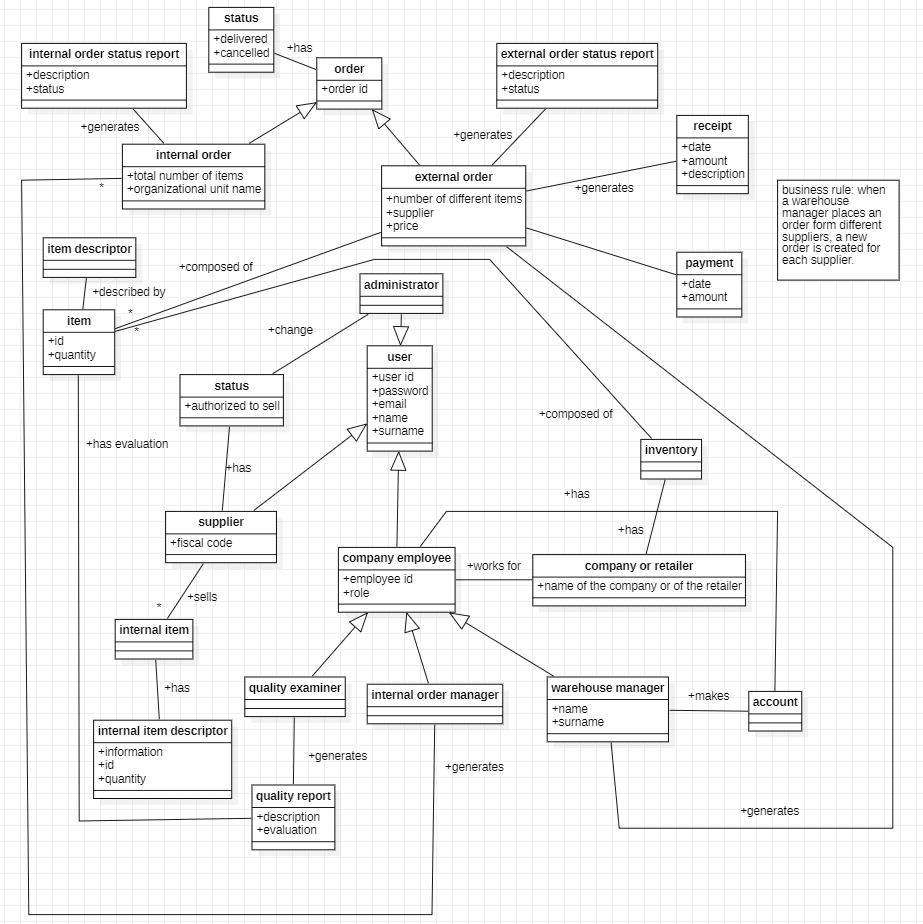
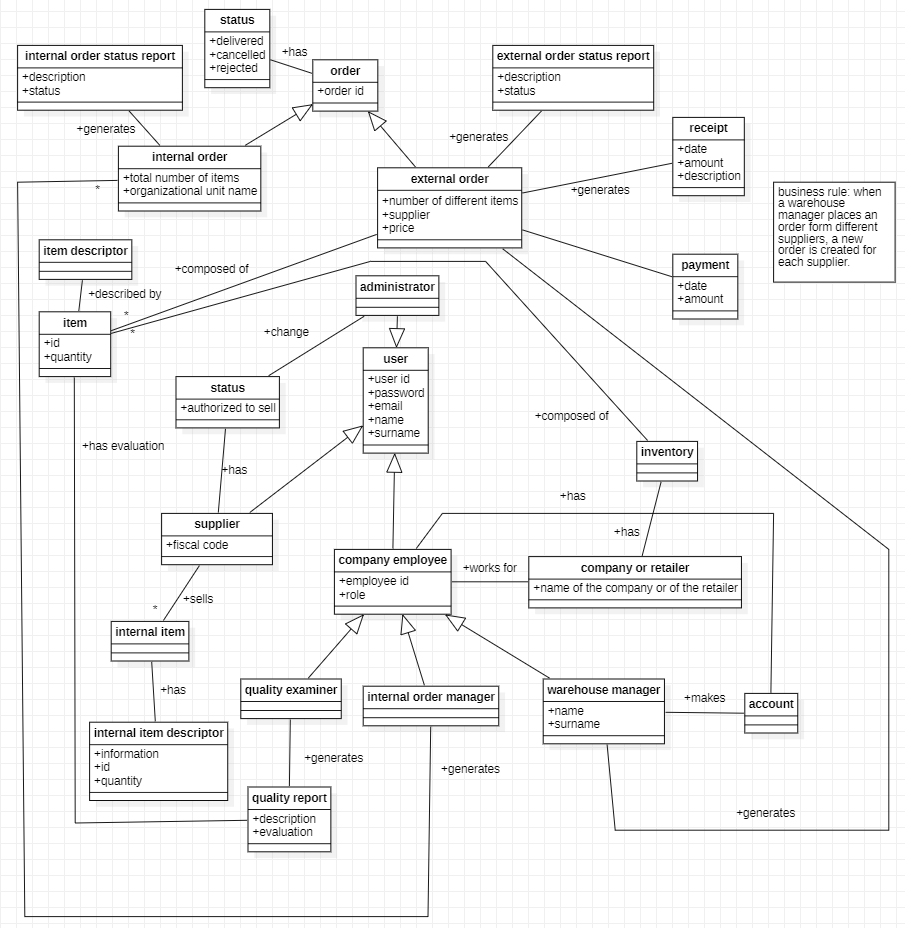
added deployment diagram and system design, completed the estimation and the requirements document

diff --git a/Estimation.md b/Estimation.md
@@ -1,54 +1,65 @@
-# Project Estimation  
+# Project Estimation
+
 Date:
 
 Version:
 
-
 # Estimation approach
-Consider the EZWH  project as described in YOUR requirement document, assume that you are going to develop the project INDEPENDENT of the deadlines of the course
+
+Consider the EZWH project as described in YOUR requirement document, assume that you are going to develop the project INDEPENDENT of the deadlines of the course
+
 # Estimate by size
-### 
-|             | Estimate                        |             
-| ----------- | ------------------------------- |  
-| NC =  Estimated number of classes to be developed   |                             |             
-|  A = Estimated average size per class, in LOC       |                            | 
-| S = Estimated size of project, in LOC (= NC * A) | |
-| E = Estimated effort, in person hours (here use productivity 10 LOC per person hour)  |                                      |   
-| C = Estimated cost, in euro (here use 1 person hour cost = 30 euro) | | 
-| Estimated calendar time, in calendar weeks (Assume team of 4 people, 8 hours per day, 5 days per week ) |                    |               
+
+###
+
+|                                                                                                         | Estimate  |
+| ------------------------------------------------------------------------------------------------------- | --------- |
+| NC = Estimated number of classes to be developed                                                        | 30        |
+| A = Estimated average size per class, in LOC                                                            | 200       |
+| S = Estimated size of project, in LOC (= NC \* A)                                                       | 6000      |
+| E = Estimated effort, in person hours (here use productivity 10 LOC per person hour)                    | 150       |
+| C = Estimated cost, in euro (here use 1 person hour cost = 30 euro)                                     | 4500      |
+| Estimated calendar time, in calendar weeks (Assume team of 4 people, 8 hours per day, 5 days per week ) | ~ 4 weeks |
 
 # Estimate by product decomposition
-### 
-|         component name    | Estimated effort (person hours)   |             
-| ----------- | ------------------------------- | 
-|requirement document    | |
-| GUI prototype | |
-|design document | |
-|code | |
-| unit tests ||
-| api tests ||
-| management documents  ||
 
+###
 
+| component name       | Estimated effort (person hours) |
+| -------------------- | ------------------------------- |
+| requirement document | 21                              |
+| GUI prototype        | 5                               |
+| design document      | 10                              |
+| code                 | 150                             |
+| unit tests           | 50                              |
+| api tests            | 15                              |
+| management documents | 15                              |
 
 # Estimate by activity decomposition
-### 
-|         Activity name    | Estimated effort (person hours)   |             
-| ----------- | ------------------------------- | 
-| | |
+
 ###
-Insert here Gantt chart with above activities
+
+| Activity name        | Estimated effort (person hours) |
+| -------------------- | ------------------------------- |
+| requirement document | 21                              |
+| GUI prototype        | 5                               |
+| Estimation document  | 2                               |
+| design document      | 10                              |
+| code                 | 150                             |
+| unit tests           | 50                              |
+| api tests            | 15                              |
+| Time sheet           | 2                               |
+
+###
+
+![estimation](src/img/estimation.png "estimation")
 
 # Summary
 
-Report here the results of the three estimation approaches. The  estimates may differ. Discuss here the possible reasons for the difference
+Report here the results of the three estimation approaches. The estimates may differ. Discuss here the possible reasons for the difference
 
-|             | Estimated effort                        |   Estimated duration |          
-| ----------- | ------------------------------- | ---------------|
-| estimate by size ||
-| estimate by product decomposition ||
-| estimate by activity decomposition ||
-
-
-
-
+|                                    | Estimated effort | Estimated duration |
+| ---------------------------------- | ---------------- | ------------------ |
+| estimate by size                   | 150 hours        | 4 weeks            |
+| estimate by product decomposition  | 266 hours        | 2 weeks            |
+| estimate by activity decomposition | 255 hours        | 2 weeks            |

diff --git a/RequirementsDocument.md b/RequirementsDocument.md
@@ -72,9 +72,6 @@ EZWH (EaSy WareHouse) is a software application to support the management of a w
 
 ## Interfaces
 
-/<describe here each interface in the context diagram>
-
-/<GUIs will be described graphically in a separate document>
 
 | Actor                  |           Logical Interface           | Physical Interface       |
 | ---------------------- | :-----------------------------------: | :----------------------- |
@@ -88,10 +85,6 @@ EZWH (EaSy WareHouse) is a software application to support the management of a w
 
 # Stories and personas
 
-/<A Persona is a realistic impersonation of an actor. Define here a few personas and describe in plain text how a persona interacts with the system>
-/<Persona is-an-instance-of actor>
-/<stories will be formalized later as scenarios in use cases>
-
 - persona 1: medium company, 10 years of experience
   - story: a company composed of different organizational units needs a system to efficiently buy different products and also manage its own inventory.
 - persona 2: small retailer of a small city
@@ -103,7 +96,6 @@ EZWH (EaSy WareHouse) is a software application to support the management of a w
 
 ## Functional Requirements
 
-/<they match to high level use cases>
 
 | ID        |           Description           |
 | --------- | :-----------------------------: |
@@ -136,7 +128,7 @@ EZWH (EaSy WareHouse) is a software application to support the management of a w
 |     FR5.3 |           modify item           |
 |     FR5.4 |         View inventory          |
 |           |                                 |
-| FR6      |         Handle supplier         |
+| FR6      |         Handle supplier          |
 |     FR6.1 |     Modify supplier profile     |
 |     FR6.2 |     Delete supplier profile     |
 |     FR6.3 |           view orders           |
@@ -827,11 +819,13 @@ The supplier want to see if the administrator has made the supplier as "trusted"
 
 # Glossary
 
-- USER: for simplicity an user is a generalization of the supplier, the retailer, the warehouse manager, the internal order manager and also the retailer. (this term is useful in some scenario where each of them can do the scenario)
-- SYSTEM: the "thinking/elaborating part" of the system
+- USER: for simplicity an user is a generalization of the supplier, the retailer, the warehouse manager, the quality office, the internal order manager and also the retailer. (this term is useful in some scenario where each of them can do the scenario)
 - WAREHOUSE MANAGER: warehouse manager of the company or of the retailer
-- INTERNAL CALOGUE: the inventory of the company / retailer
-- EXTERNAL CATALOGUE: the catalogue storing all the items selled from the suppliers
+- ITEM: with out system we want to handle selling of this entity
+- ORDER: this class is divided into two sub class: internal order and external one. the system manages these two entity in a different way.
+- ACCOUNT: each user who want to use the system has an account to access all the feature of the platform 
+- ADMINISTRATOR: the administrator has the ability to manage all the system. it is also in charge to make a supplier "able" to seel through the platform.
+- ORDER STATUS: each order has one of the following status: deliveder, cancelled, rejected.
 
 * for our system retailers and company are the same entity. For this reason we will refer to both as warehouse manager.
 
@@ -841,9 +835,8 @@ The supplier want to see if the administrator has made the supplier as "trusted"
 
 # System Design
 
-/<describe here system design>
-/<must be consistent with Context diagram>
+![System design](src/img/system.jpg "System design")
 
 # Deployment Diagram
 
-/<describe here deployment diagram >
+![Deployment Diagram](src/img/deployment.jpg "Deployment Diagram")
